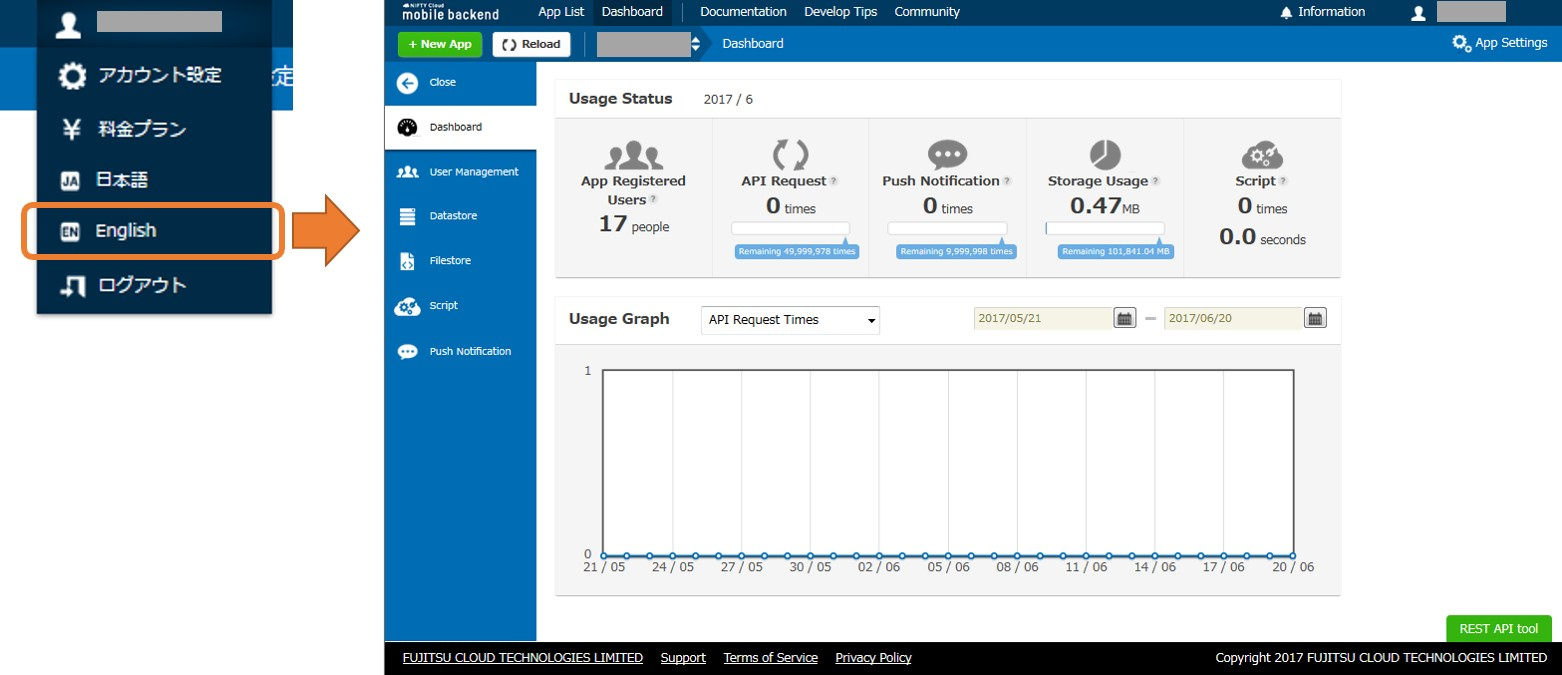
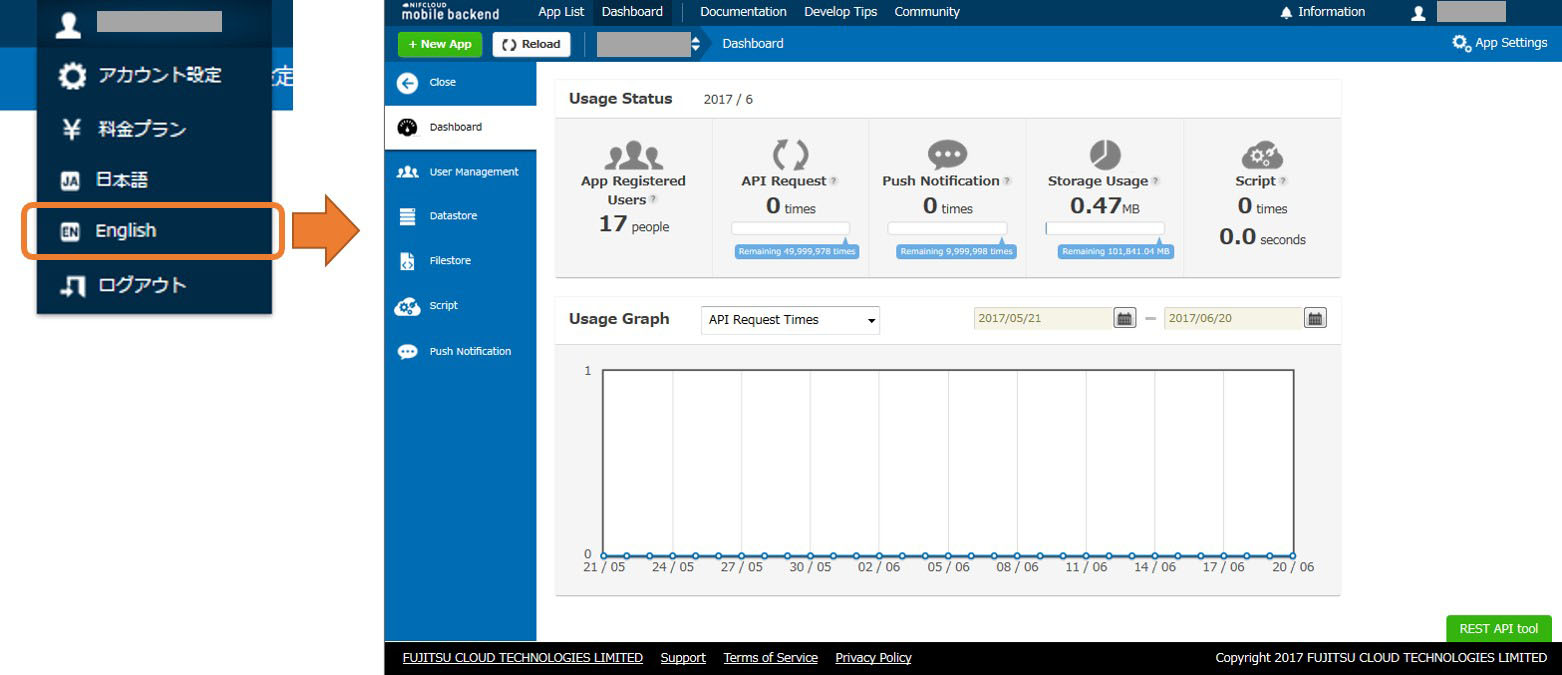
change_Nifty_text

Changed region(s): [[0.2458, 0.0, 0.3073, 0.0933], [0.0307, 0.3733, 0.1844, 0.4044], [0.0307, 0.28, 0.1844, 0.3111]]

diff --git a/www/components/ncmb/README.md b/www/components/ncmb/README.md
@@ -1,8 +1,8 @@
 JavaScript SDK for NiftyCloud mobile backend
 ------------------------------------------------------------
-[![Build Status](https://travis-ci.org/NIFTYCloud-mbaas/ncmb_js.png)](https://travis-ci.org/NIFTYCloud-mbaas/ncmb_js)
-[![Coverage Status](https://coveralls.io/repos/NIFTYCloud-mbaas/ncmb_js/badge.svg?branch=apply_coveralls&service=github)](https://coveralls.io/github/NIFTYCloud-mbaas/ncmb_js?branch=apply_coveralls)
-[![Code Climate](https://codeclimate.com/github/NIFTYCloud-mbaas/ncmb_js/badges/gpa.svg)](https://codeclimate.com/github/NIFTYCloud-mbaas/ncmb_js)
+[![Build Status](https://travis-ci.org/NIFCloud-mbaas/ncmb_js.png)](https://travis-ci.org/NIFCloud-mbaas/ncmb_js)
+[![Coverage Status](https://coveralls.io/repos/NIFCloud-mbaas/ncmb_js/badge.svg?branch=apply_coveralls&service=github)](https://coveralls.io/github/NIFCloud-mbaas/ncmb_js?branch=apply_coveralls)
+[![Code Climate](https://codeclimate.com/github/NIFCloud-mbaas/ncmb_js/badges/gpa.svg)](https://codeclimate.com/github/NIFCloud-mbaas/ncmb_js)
 
 ## Install
 
@@ -248,7 +248,7 @@ $ browserify -r -p licensify -t [ uglifyify -x .js ] -o ncmb.min.js lib/ncmb.js
 ## For Developer
 
 ```shell
-$ git clone https://github.com/NIFTYCloud-mbaas/ncmb_js
+$ git clone https://github.com/NIFCloud-mbaas/ncmb_js
 $ cd ncmb_js
 $ npm install
 $ npm test
@@ -299,4 +299,4 @@ Run `npm run docment:generate` command, then documents has created in `jsdoc` di
 
 ## License
 
-Please read [LICENSE](git://github.com/NIFTYCloud-mbaas/ncmb_js/blob/master/LICENSE).
+Please read [LICENSE](git://github.com/NIFCloud-mbaas/ncmb_js/blob/master/LICENSE).

diff --git a/README_en.md b/README_en.md
@@ -69,7 +69,7 @@ Android
 1. Click "Import Project" at the top left
 1. Enter "Project Name" (for example: "DBDEMO")
 1. Check "Import from URL" in "Import Method", then right click to copy and paste the following link.
-1. Project:__[https://github.com/NIFTYCloud-mbaas/monaca_data_registration/archive/master.zip](https://github.com/NIFTYCloud-mbaas/monaca_data_registration/archive/master.zip)__
+1. Project:__[https://github.com/NIFCloud-mbaas/monaca_data_registration/archive/master.zip](https://github.com/NIFCloud-mbaas/monaca_data_registration/archive/master.zip)__
 1. When click "Import" button, the imported project will be created
 
 ![Image6](/readme-img/006_en.png)
@@ -149,6 +149,6 @@ If the SDK is not up to date, please refer to the image below and update your SD
 ## Reference
 * [Document](http://mb.cloud.nifty.com/doc/current/#/Monaca) of mBaaS(monaca)
 * We also have the same content for [iOS · Android] version
- * [Objective-C]https://github.com/NIFTYCloud-mbaas/iOS-Objective-C_DB_DEMO
- * [Swift]https://github.com/NIFTYCloud-mbaas/iOS-Swift_DB_DEMO
- * [Android]https://github.com/NIFTYCloud-mbaas/android_data_demo
+ * [Objective-C]https://github.com/NIFCloud-mbaas/iOS-Objective-C_DB_DEMO
+ * [Swift]https://github.com/NIFCloud-mbaas/iOS-Swift_DB_DEMO
+ * [Android]https://github.com/NIFCloud-mbaas/android_data_demo
